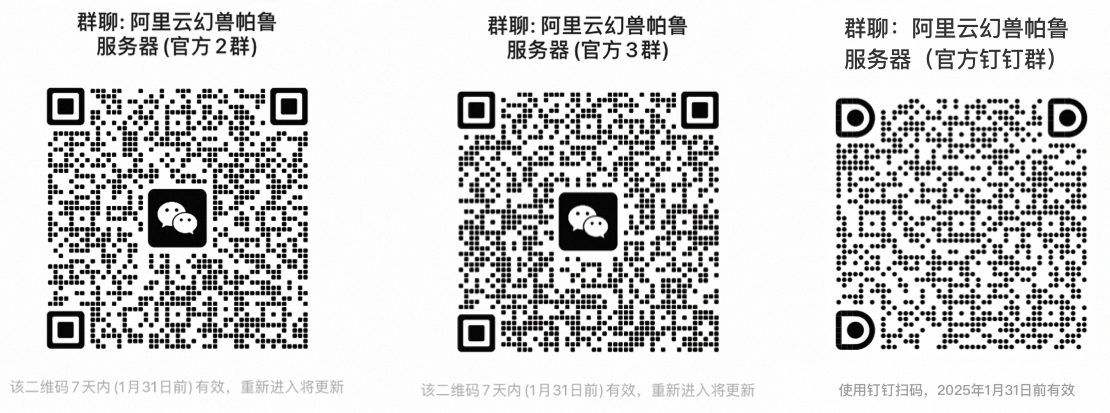
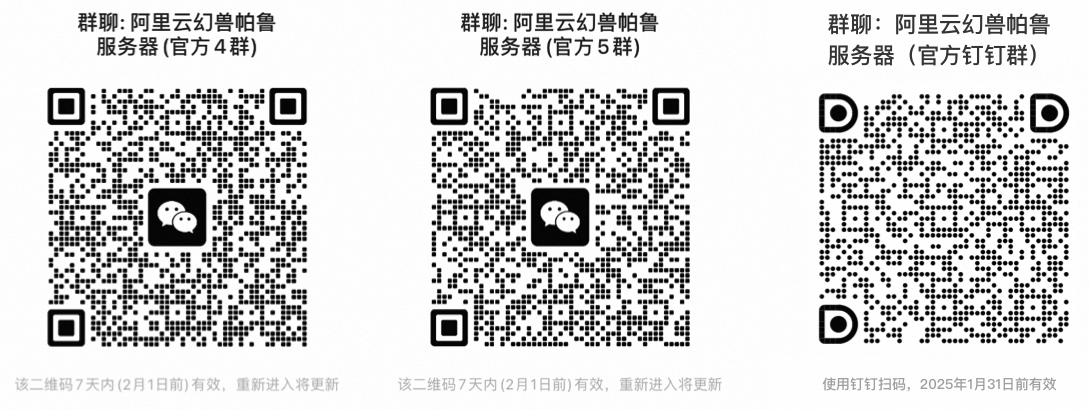
add doc

diff --git a/docs/index.md b/docs/index.md
@@ -20,14 +20,11 @@
    ![111.jpg](111.jpg)
    这里阿里云也根据游戏人数不同推荐了几款配置，大家按需即可:
 
-   | 套餐名           | 说明                           |
-   |---------------|------------------------------|
-   | 入门试玩（1-4人）    | e系列 4核16G，3M带宽不限流量，1个月       |
-   | 入门尝鲜（4-8人）    | e系列 4核16G，3M带宽不限流量，1个月       |
-   | 入门畅玩（6-10人）   | e系列 4核16G，10M带宽不限流量，1个月      |
-   | 驰骋游戏战场（10人以上） | u1系列 4核32G，10M带宽不限流量，1个月     |
-   | 沉浸驰骋体验（10人以上） | u1系列 4核32G，10M带宽不限流量，3个月更长时长 |
-   | 自定义套餐         | 可自由选择ECS配置，适合高阶DIY玩家。        |
+   | 套餐名          | 说明                        |
+   |--------------|---------------------------|
+   | 支持4-8个玩家     | e系列 4核16G，3M带宽不限流量      |
+   | 支持10-16个玩家   | u1系列 4核32G，10M带宽不限流量    |
+   | 自定义套餐        | 可自由选择ECS配置，适合高阶DIY玩家      |
 
    ![222.jpg](222.jpg)
 
@@ -187,8 +184,48 @@
 2. 若彻底不再使用了可以直接将服务实例删除，后续就不会再产生费用
    ![9.jpg](9.jpg)
 
-## 服务支持
+## 游戏存档
+### 创建存档
+1. 登录计算巢控制台，进入服务管理页面，点击服务实例ID，进入服务实例详情页面点击资源，找到ECS实例并进入详情页面。
+   ![9.jpg](24.jpg)
+2. 点击**云盘**，然后给系统盘**创建快照**。
+   ![9.jpg](25.jpg)
 
-您有任何问题或者建议，可以使用微信扫描二维码，加人我们的官方服务群，我们将非常欢迎您的建议和反馈～
+### 恢复存档
+1. 停止ECS实例，   
+   ![9.jpg](32.jpg)
 
-<img src="15.png" width="1000" height="400" align="bottom"/>
+2. 点击磁盘ID进入磁盘详情页。
+   ![9.jpg](31.jpg)
+
+3. 在云盘快照栏面点击**快照**，选择要恢复的快照，点击**回滚云盘**。
+   ![9.jpg](34.jpg)
+
+4. 等待回滚云盘任务执行完成，启动ECS实例。
+   ![9.jpg](35.jpg)
+
+
+## 官方支持
+
+您有任何问题或者建议，可以使用微信或钉钉扫描下方二维码，加人我们的官方服务群，我们将非常欢迎您的建议和反馈～
+
+   <img src="15.png" width="1000" height="400" align="bottom"/>
+
+##  常见问题
+
+### 删除时提示无法删除，存在预付费资源
+注意：包年包月实例退款成功后，再次购买没有之前的优惠。
+
+1. 拿ECS实例ID到[用户中心](https://usercenter2.aliyun.com/refund/refund)退款
+   ![23.jpg](23.jpg)
+
+2. 退款完成后再次删除计算巢服务实例
+
+### 进入游戏提示：No password has been entered.
+按以下流程操作解决：
+   ![23.jpg](26.png)
+   ![23.jpg](27.JPG)
+   ![23.jpg](28.JPG)
+   ![23.jpg](29.JPG)
+   ![23.jpg](30.JPG)
+
